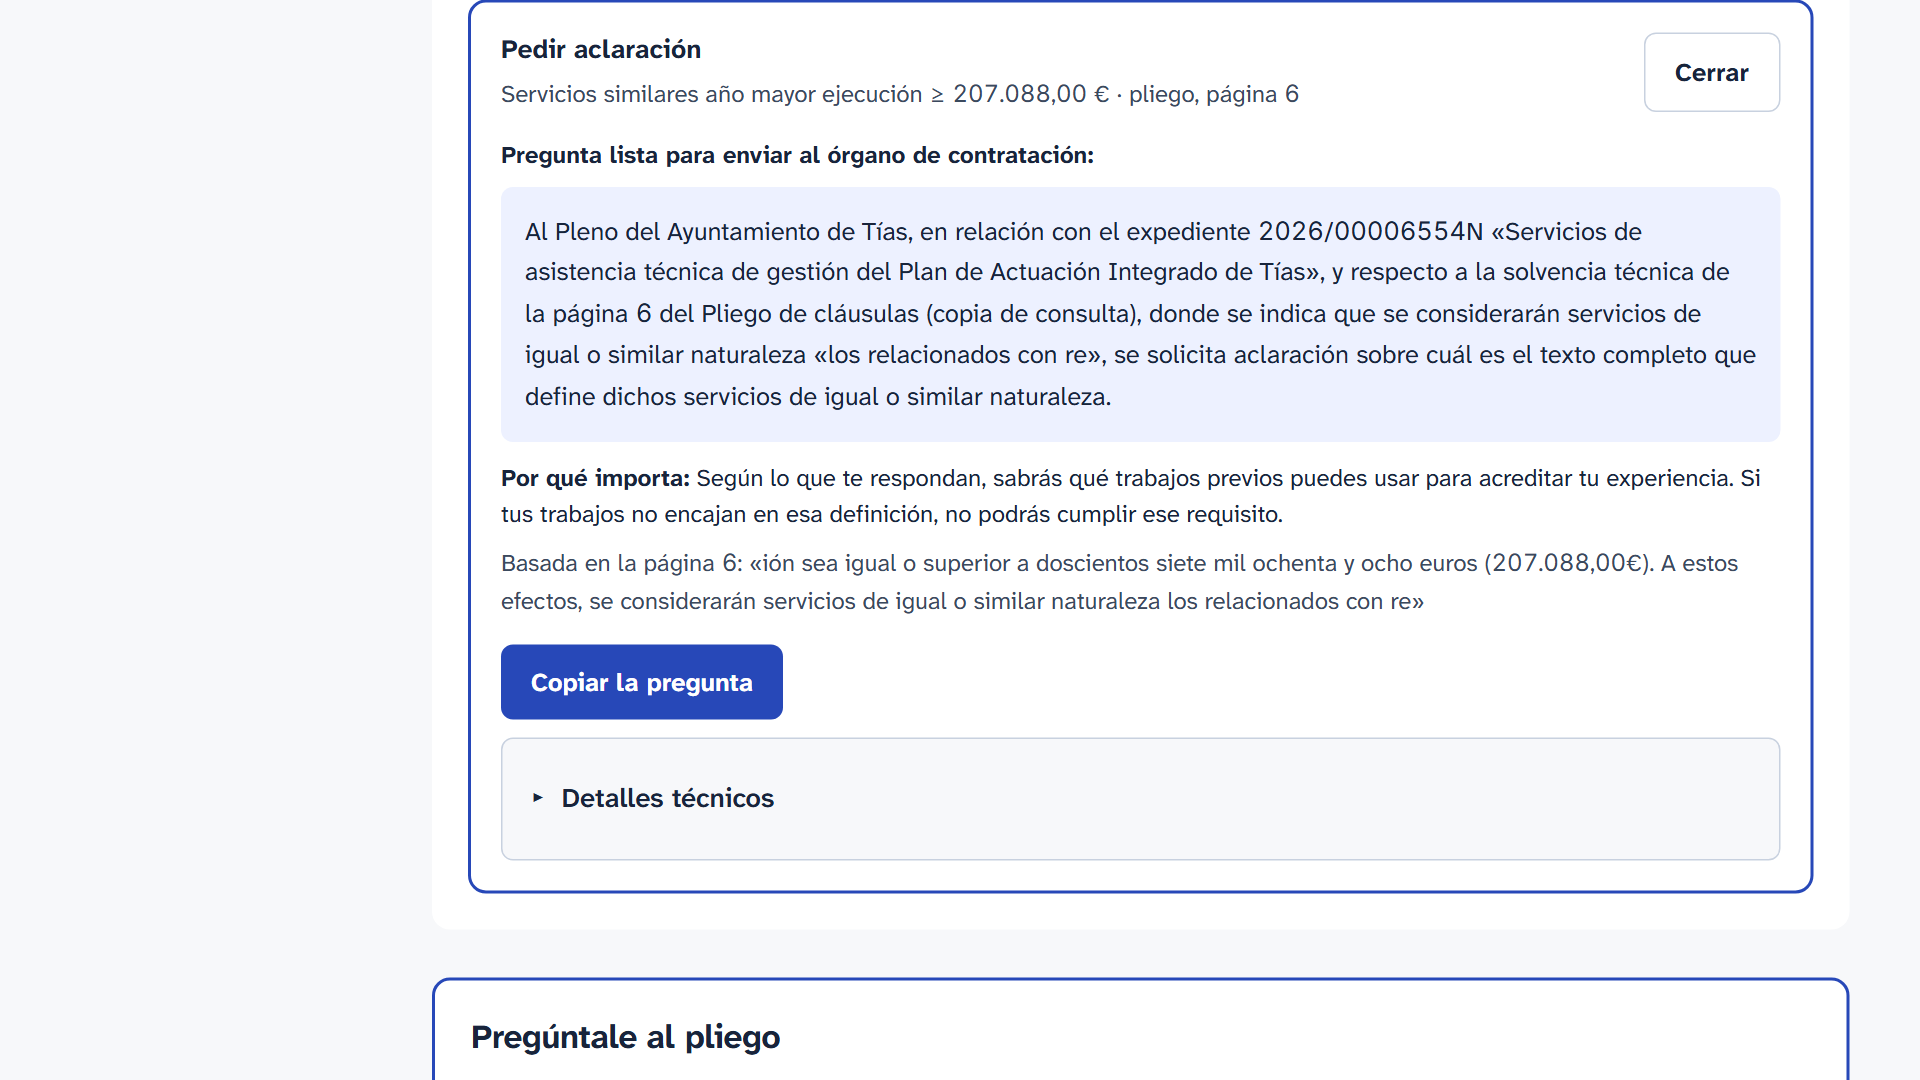
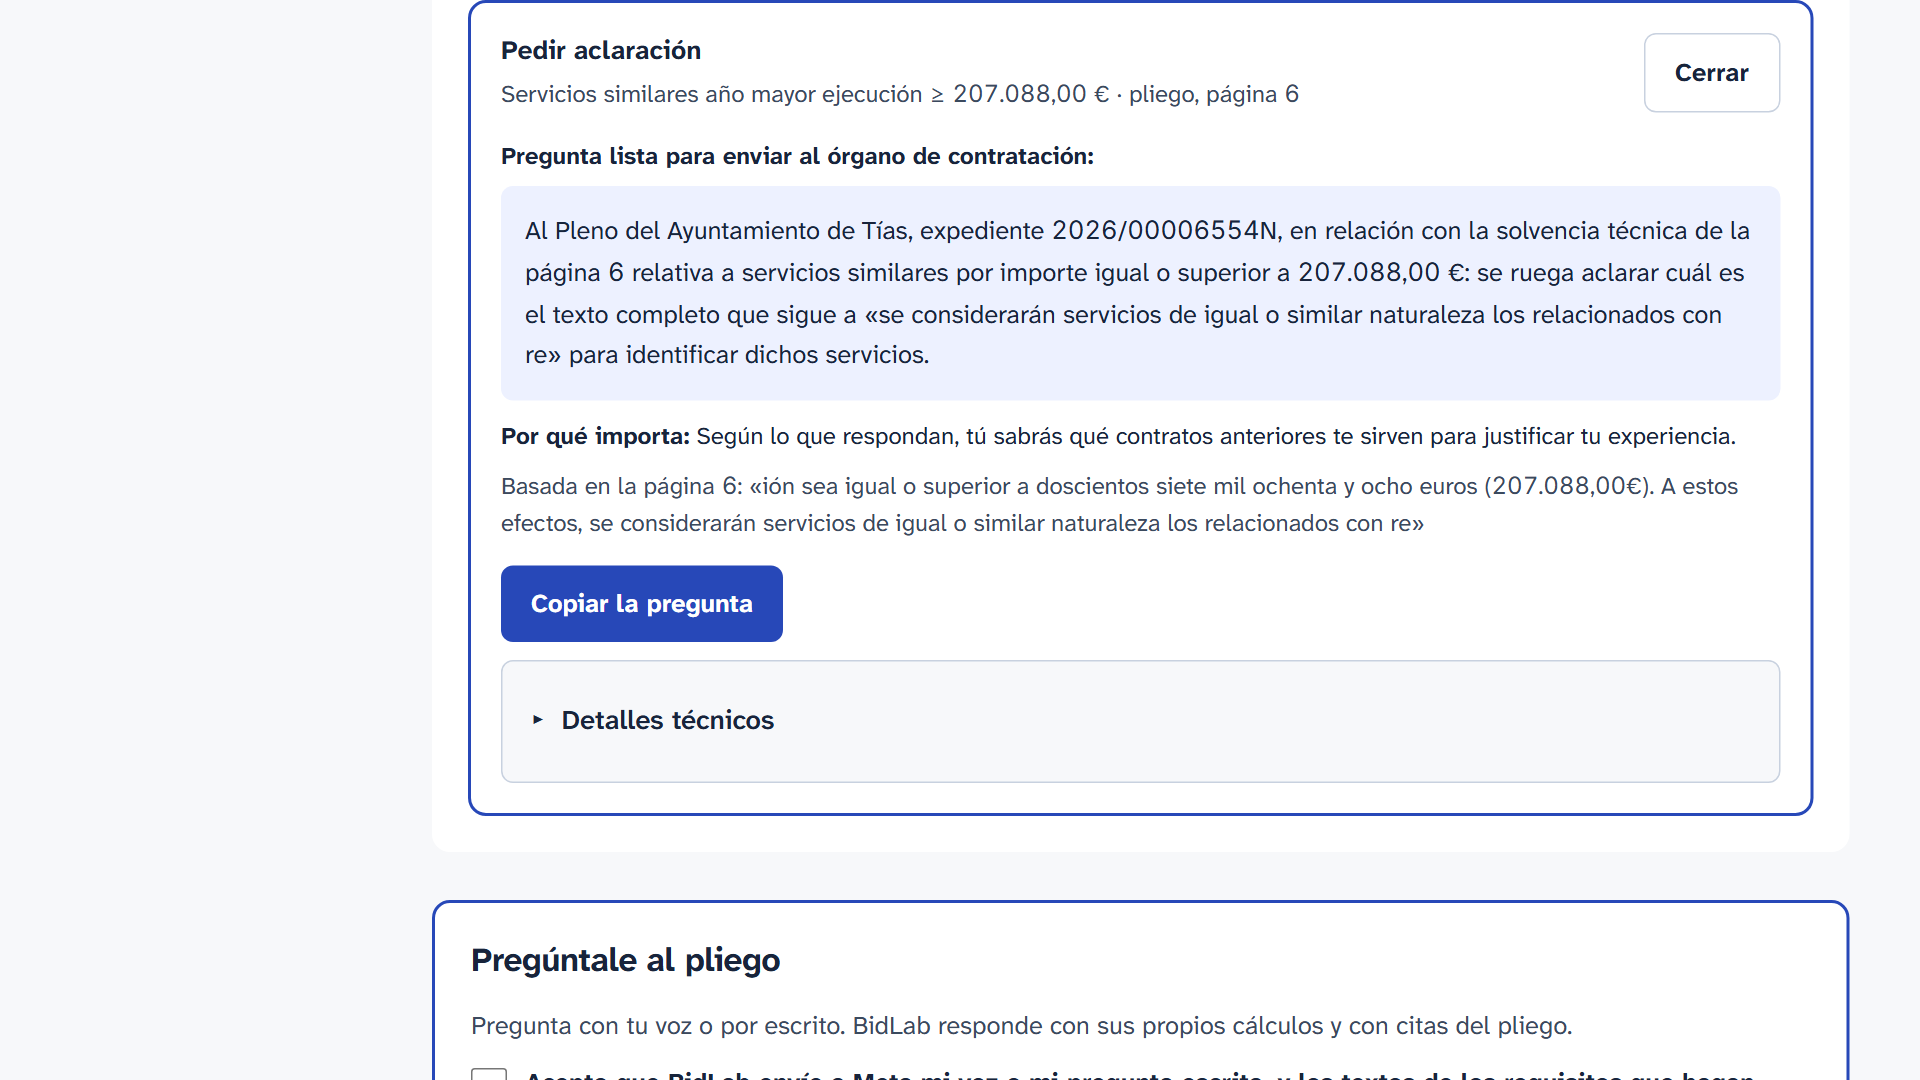
live: refresh clarify+voice captures on new UI; document PLACSP WAF block

diff --git a/blockers.md b/blockers.md
@@ -1,0 +1,22 @@
+# BidLab blockers
+
+## 2026-11-03 — PLACSP document downloads rejected (EXTERNAL, open)
+
+`POST /api/v1/tenders/import` on the default Munilla tender (5/2026) fails with
+`source_unavailable`, detail `record XML: unexpected_type`.
+
+Diagnosis: the tender detail page still loads (expediente found, document rows
+parsed), but the Plataforma's `GetDocumentByIdServlet` answers the record XML
+with `200 text/html` and a "Request Rejected" WAF page instead of the CODICE
+document. Our client identifies honestly as
+`BidLab/1.0 (single user-initiated tender import)`; we do not impersonate a
+browser to bypass the filter.
+
+Impact: live capture test 1 (import → consent → Muse Spark proposals →
+evidence) cannot refresh its 4 shots (`live-import`, `live-consent`,
+`live-proposal`, `live-evidence` still show the pre-hierarchy UI from 30-oct).
+Live test 2 (clarification + voice) passed and its 5 shots are current.
+
+Next: retry the import later in case the WAF block is transient, or pick
+another open tender via `BIDLAB_PLACSP_URL`. Two bounded attempts were made on
+2026-11-03 (~21:45 and ~21:55 CET); both failed identically.
